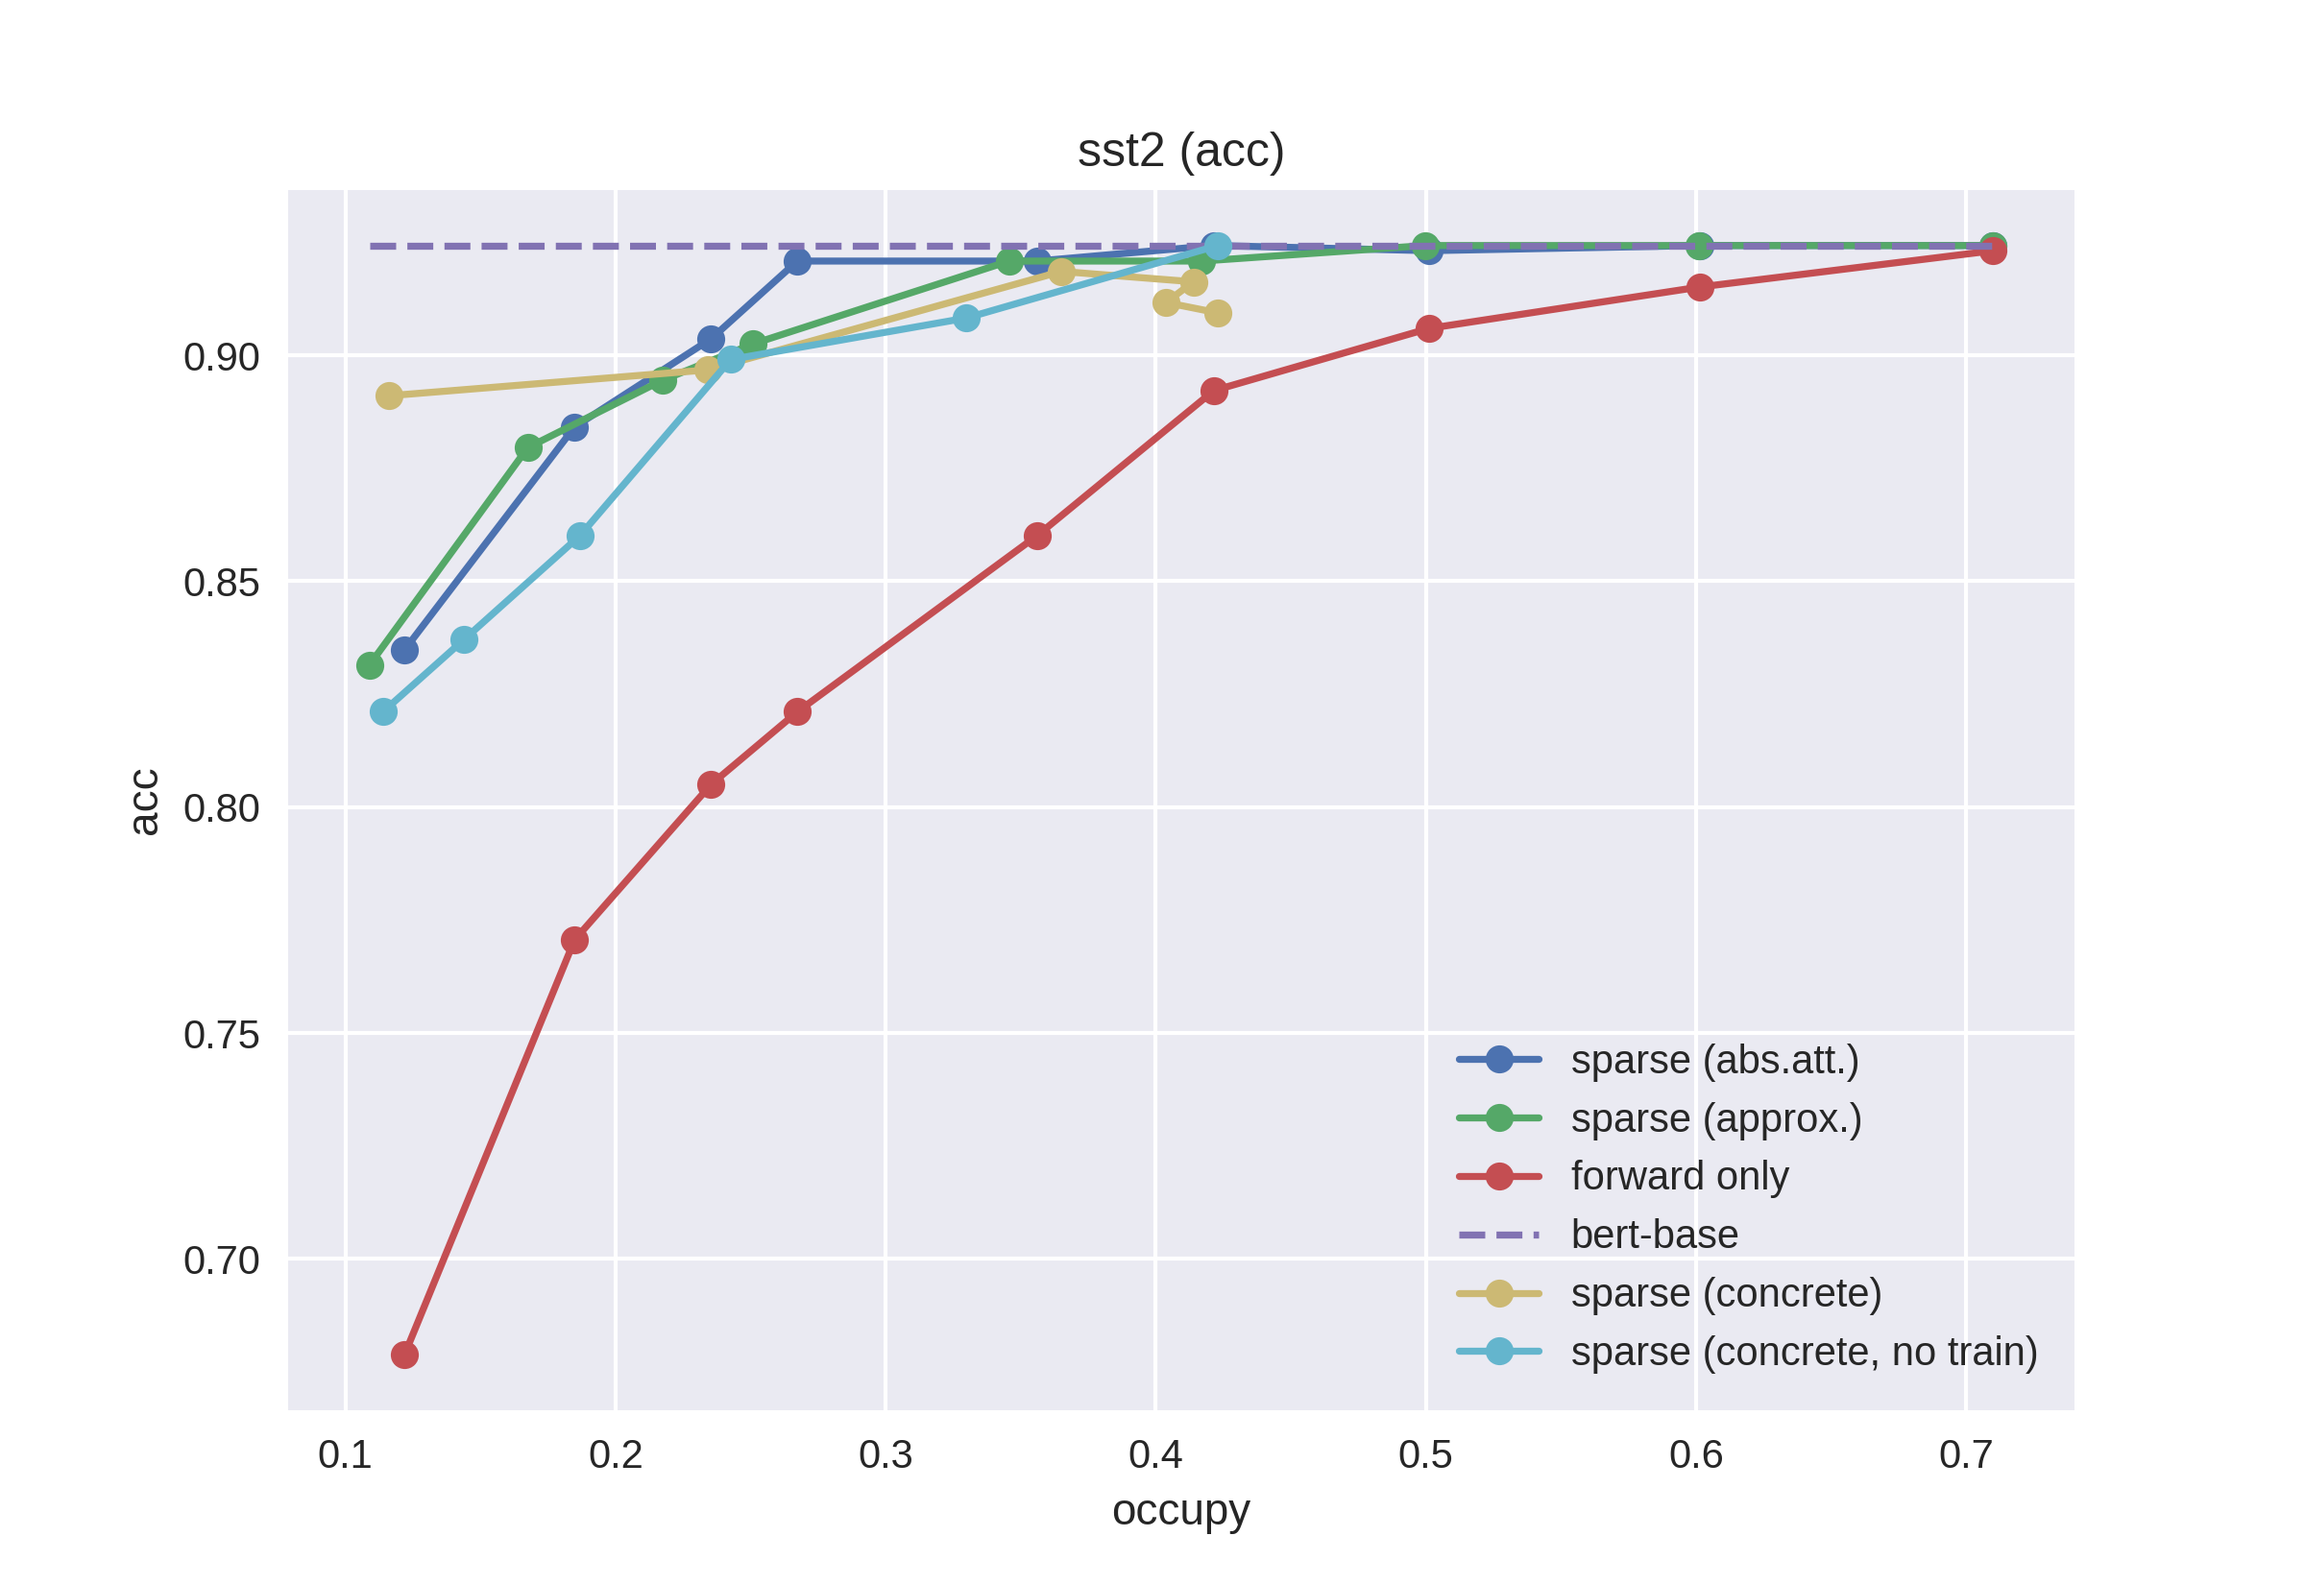
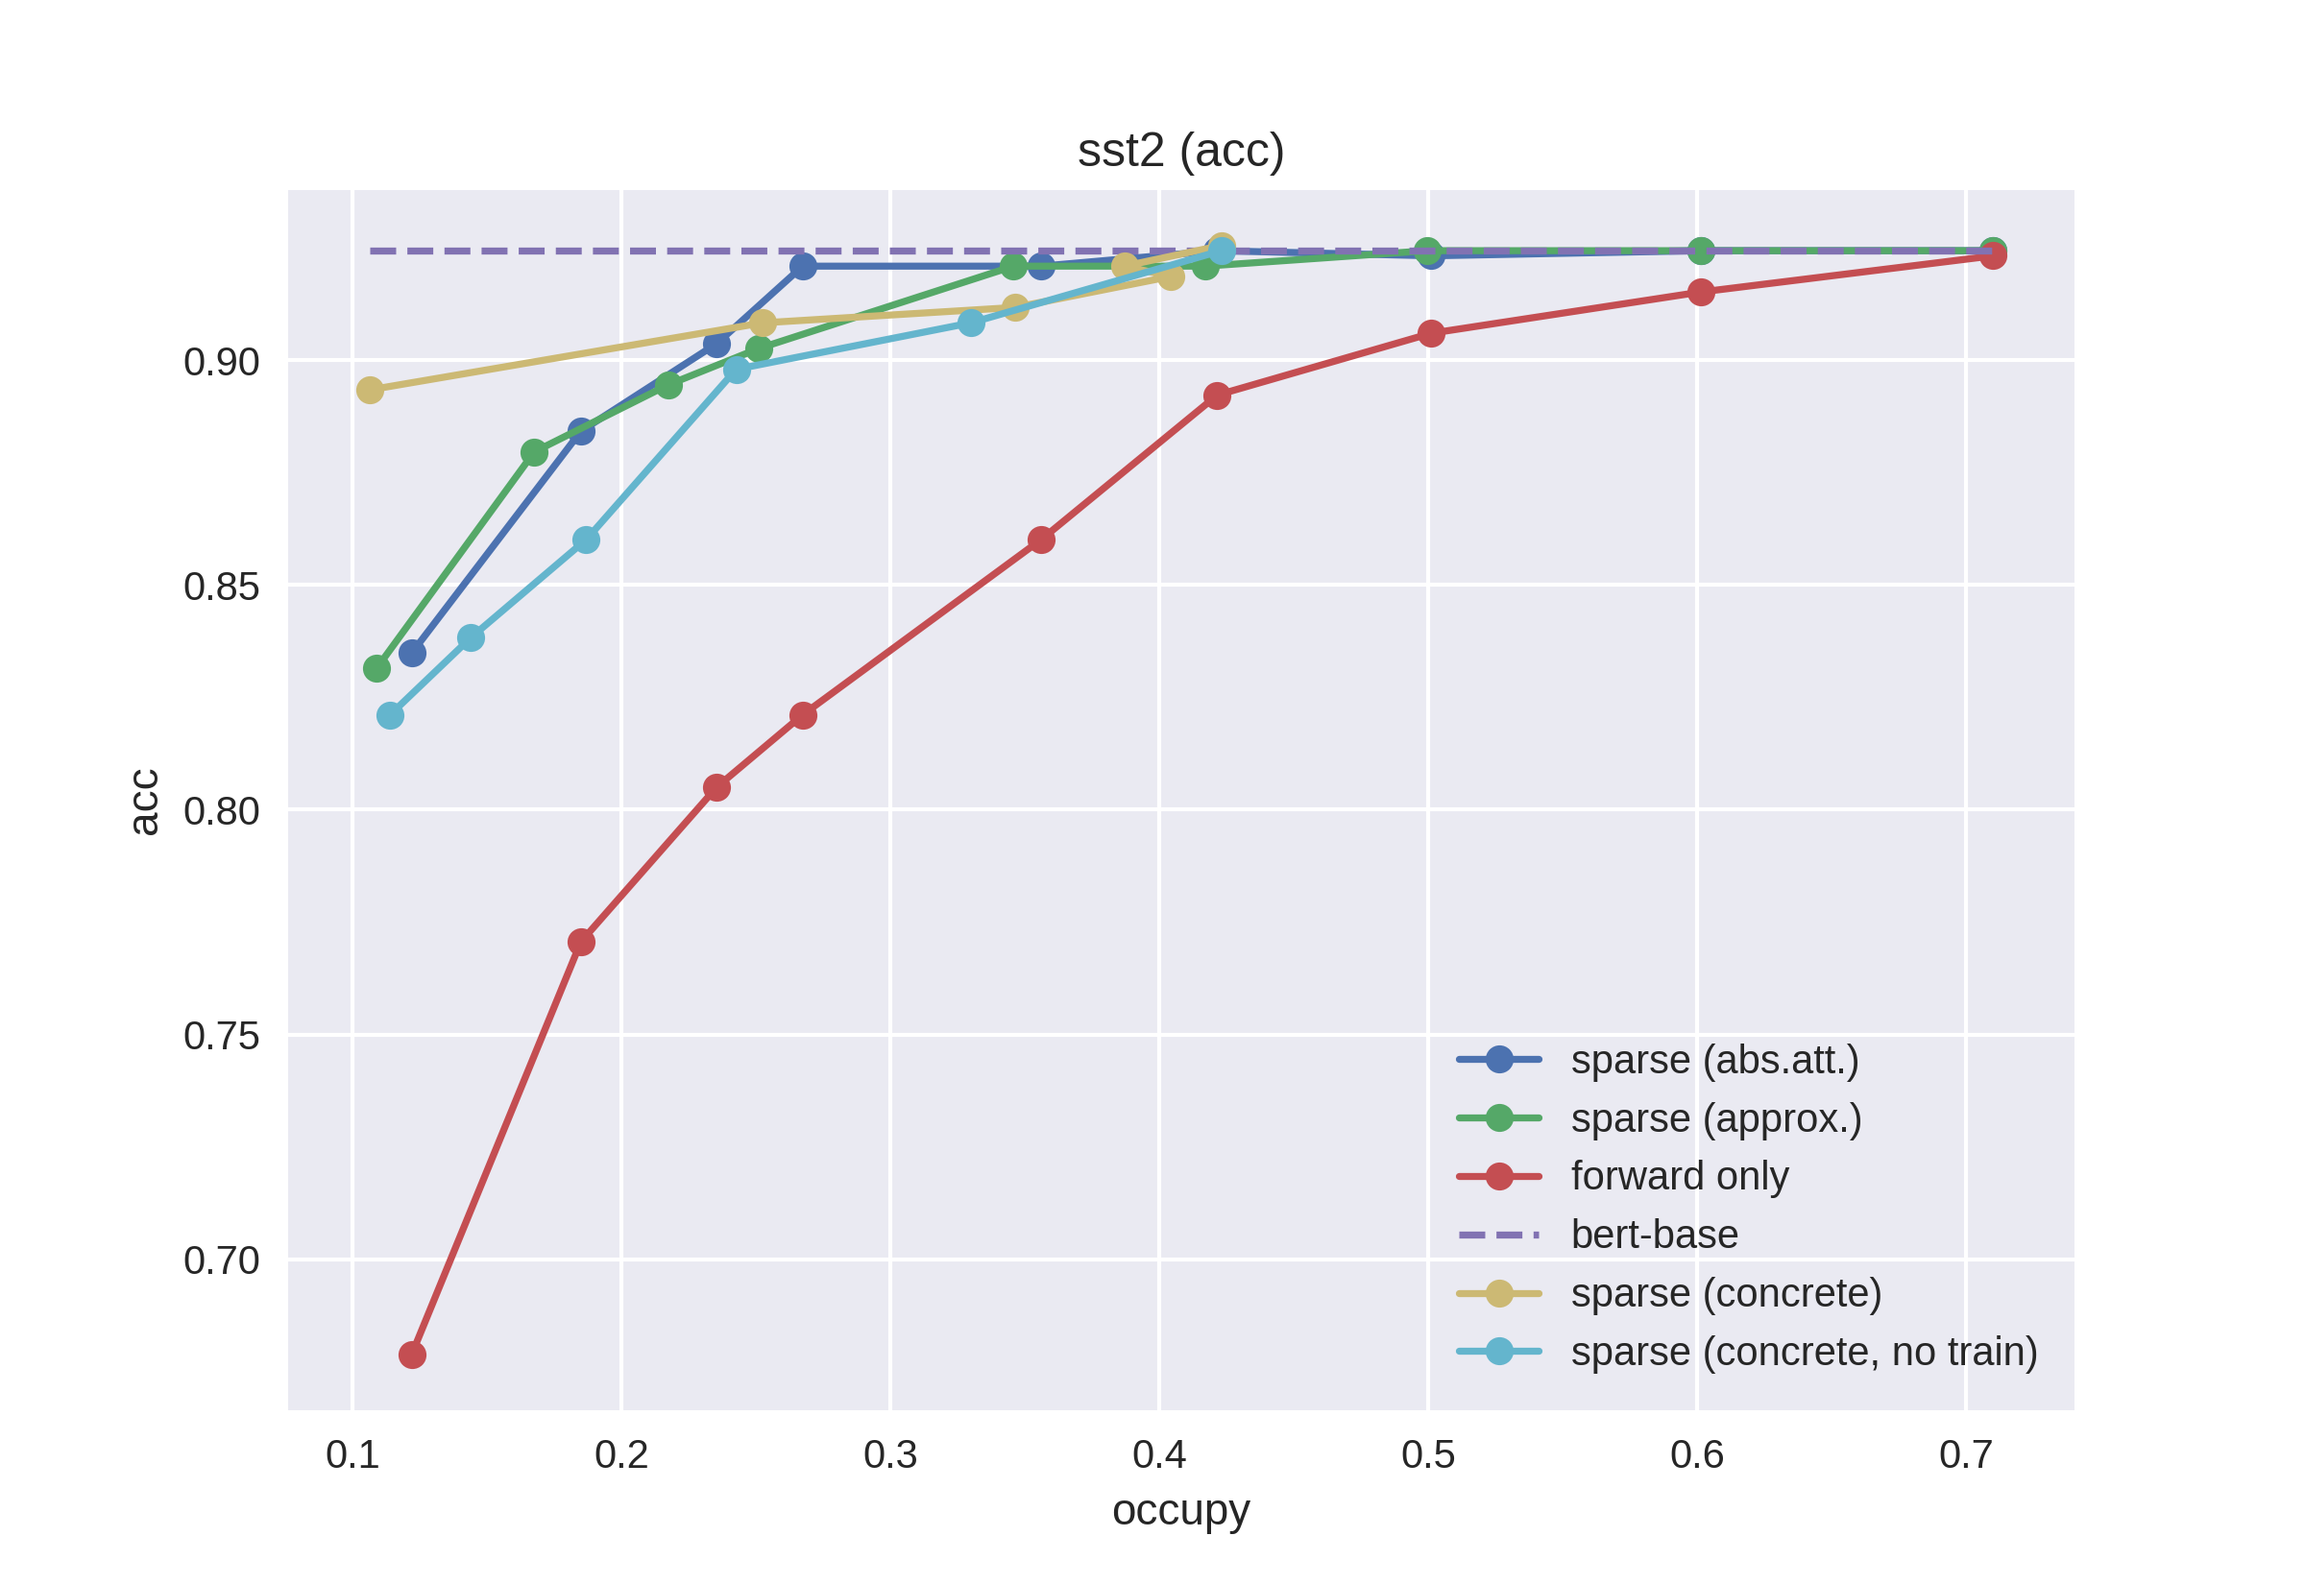
dynamic LR

diff --git a/main/concrete_glue_plot.py b/main/concrete_glue_plot.py
@@ -5,8 +5,8 @@ import torch, pickle
 
 import trainer.concrete_trainer as concrete
 
-p_logits = [-2, -1.5, -1, -0.5, 0, 3]
-epoch_factors = [1.0, 1.0, 1.0, 1.0, 1.0, 0.4, 0.4]
+p_logits =      [-2.0, -1.5, -1.0, -0.5, 0.0, 3.0]
+epoch_factors = [ 1.0,  1.0,  1.0,  0.8, 0.4, 0.2]
 #p_logits = [0, 3]
 # epoch_factors = [0.5, 0.2]
 
@@ -83,9 +83,10 @@ def main():
 
     for i, p_logit in enumerate(p_logits):
         trainer = concrete.ConcreteTrainer(
-            dataset=subset,
-            factor=4,
-            batch_size=args.batch_size
+            dataset = subset,
+            factor = 4,
+            batch_size = args.batch_size,
+            lr = None if concrete.task_to_epochs[subset] * epoch_factors[i] >= 1.0 else (1e-5 * epoch_factors[i])
         )
         trainer.enable_checkpointing = False
         #trainer.reset_train()

diff --git a/trainer/concrete_trainer.py b/trainer/concrete_trainer.py
@@ -152,7 +152,7 @@ class ConcreteTrainer:
         dataset, factor=4,
         batch_size=None, device=0, world_size=1, 
         checkpoint_name=None, init_checkpoint=None,
-        enable_plot=False,
+        enable_plot=False, lr=None,
     ):
         print('Trainer:', dataset)
         self.seed()
@@ -163,7 +163,7 @@ class ConcreteTrainer:
         self.enable_plot = enable_plot
         self.init_checkpoint = init_checkpoint
         self.checkpoint_name = checkpoint_name
-        self.lr = 1e-5
+        self.lr = 1e-5 if lr is None else lr
         self.weight_decay = 5e-2
         self.dataset = dataset
         if batch_size is None or batch_size <= 0:
